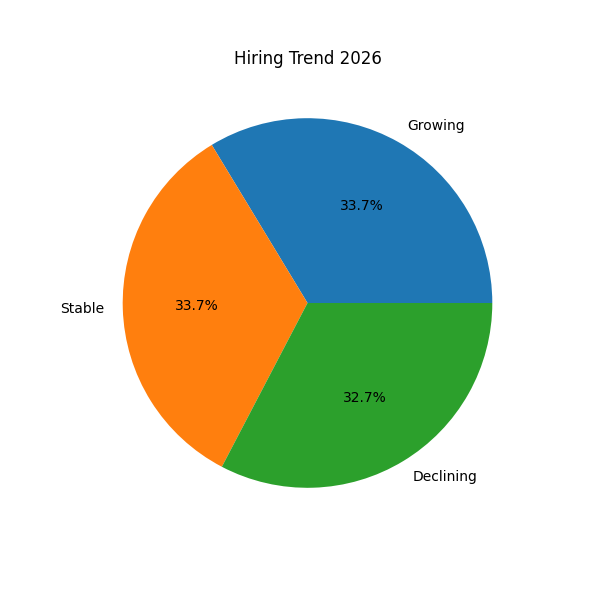
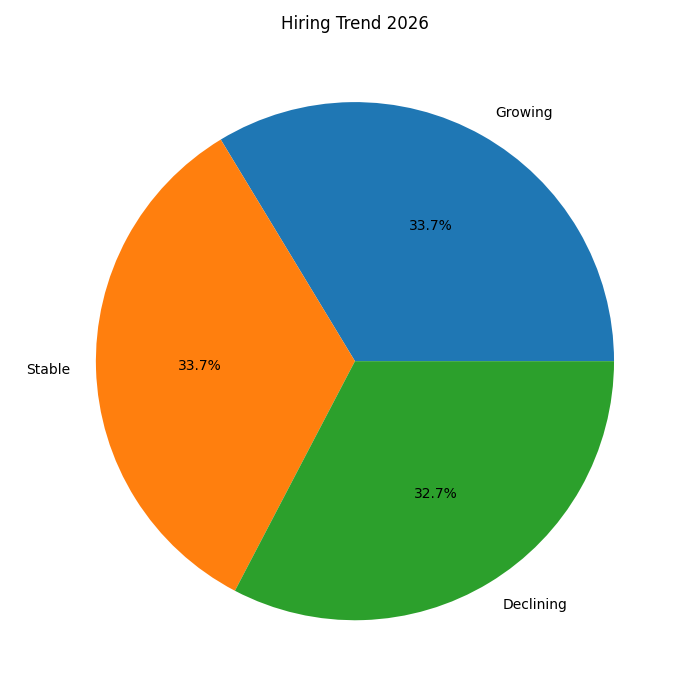
Update visualizations with new insight charts

diff --git a/scripts/visualizations.py b/scripts/visualizations.py
@@ -1,95 +1,168 @@
 import pandas as pd
 import matplotlib.pyplot as plt
 
+# Load Dataset
 df = pd.read_csv("data/AI_Impact_on_Jobs_2030.csv")
 
-# 1. Top Job Roles
-top_jobs = df["Job_Title"].value_counts().head(10)
+# =====================================================
+# 1. HIGHEST PAYING JOBS
+# =====================================================
 
-plt.figure(figsize=(10,5))
-top_jobs.plot(kind="bar")
-plt.title("Top 10 Job Roles")
+salary = (
+    df.groupby("Job_Title")["Average_Salary_USD"]
+    .mean()
+    .sort_values(ascending=False)
+    .head(10)
+)
+
+plt.figure(figsize=(12,6))
+salary.plot(kind="barh")
+
+plt.title("Top 10 Highest Paying Jobs")
+plt.xlabel("Average Salary (USD)")
+plt.ylabel("Job Title")
+
 plt.tight_layout()
-plt.savefig("screenshots/top_jobs.png")
+plt.savefig("screenshots/highest_paying_jobs.png")
 plt.close()
 
-# 2. Top Countries
-countries = df["Country"].value_counts().head(10)
+# =====================================================
+# 2. FUTURE-PROOF CAREERS
+# =====================================================
 
-plt.figure(figsize=(10,5))
-countries.plot(kind="bar")
-plt.title("Top Countries")
+future = (
+    df.groupby("Job_Title")["Future_Demand_Score"]
+    .mean()
+    .sort_values(ascending=False)
+    .head(10)
+)
+
+plt.figure(figsize=(12,6))
+future.plot(kind="barh")
+
+plt.title("Top 10 Future-Proof Careers")
+plt.xlabel("Future Demand Score")
+plt.ylabel("Job Title")
+
+plt.tight_layout()
+plt.savefig("screenshots/future_proof_jobs.png")
+plt.close()
+
+# =====================================================
+# 3. INDUSTRY GROWTH POTENTIAL
+# =====================================================
+
+industry_growth = (
+    df.groupby("Industry")["Job_Growth_2030"]
+    .mean()
+    .sort_values(ascending=False)
+)
+
+plt.figure(figsize=(12,6))
+industry_growth.plot(kind="bar")
+
+plt.title("Industry Growth Potential by 2030")
+plt.xlabel("Industry")
+plt.ylabel("Average Job Growth")
+
+plt.tight_layout()
+plt.savefig("screenshots/industry_growth.png")
+plt.close()
+
+# =====================================================
+# 4. AI TOOL USAGE VS SALARY
+# =====================================================
+
+salary_ai = (
+    df.groupby("AI_Tool_Usage")["Average_Salary_USD"]
+    .mean()
+)
+
+plt.figure(figsize=(8,5))
+salary_ai.plot(kind="bar")
+
+plt.title("Average Salary by AI Tool Usage")
+plt.xlabel("AI Tool Usage")
+plt.ylabel("Average Salary (USD)")
+
+plt.tight_layout()
+plt.savefig("screenshots/salary_vs_ai_usage.png")
+plt.close()
+
+# =====================================================
+# 5. AI RISK VS FUTURE DEMAND
+# =====================================================
+
+job_summary = df.groupby("Job_Title").agg({
+    "AI_Replacement_Risk":"mean",
+    "Future_Demand_Score":"mean"
+})
+
+plt.figure(figsize=(12,8))
+
+plt.scatter(
+    job_summary["AI_Replacement_Risk"],
+    job_summary["Future_Demand_Score"]
+)
+
+for job in job_summary.index:
+    plt.annotate(
+        job,
+        (
+            job_summary.loc[job,"AI_Replacement_Risk"],
+            job_summary.loc[job,"Future_Demand_Score"]
+        ),
+        fontsize=7
+    )
+
+plt.title("AI Risk vs Future Demand")
+plt.xlabel("AI Replacement Risk")
+plt.ylabel("Future Demand Score")
+
+plt.tight_layout()
+plt.savefig("screenshots/ai_risk_vs_future_demand.png")
+plt.close()
+
+# =====================================================
+# 6. TOP COUNTRIES BY JOB COUNT
+# =====================================================
+
+countries = (
+    df["Country"]
+    .value_counts()
+    .head(10)
+)
+
+plt.figure(figsize=(12,6))
+countries.plot(kind="barh")
+
+plt.title("Top Countries by Job Count")
+plt.xlabel("Number of Jobs")
+plt.ylabel("Country")
+
 plt.tight_layout()
 plt.savefig("screenshots/top_countries.png")
 plt.close()
 
-# 3. Hiring Trend
+# =====================================================
+# 7. HIRING TREND
+# =====================================================
+
 hiring = df["Hiring_Trend_2026"].value_counts()
 
-plt.figure(figsize=(6,6))
-hiring.plot(kind="pie", autopct="%1.1f%%")
+plt.figure(figsize=(7,7))
+hiring.plot(
+    kind="pie",
+    autopct="%1.1f%%"
+)
+
 plt.ylabel("")
 plt.title("Hiring Trend 2026")
+
+plt.tight_layout()
 plt.savefig("screenshots/hiring_trend.png")
 plt.close()
 
-# 4. Education Level
-education = df["Education_Level"].value_counts()
-
-plt.figure(figsize=(6,6))
-education.plot(kind="pie", autopct="%1.1f%%")
-plt.ylabel("")
-plt.title("Education Level Distribution")
-plt.savefig("screenshots/education_level.png")
-plt.close()
-
-# 5. Salary vs AI Risk (Advanced Chart)
-plt.figure(figsize=(10,6))
-plt.scatter(
-    df["AI_Replacement_Risk"],
-    df["Average_Salary_USD"]
-)
-
-plt.title("Salary vs AI Replacement Risk")
-plt.xlabel("AI Replacement Risk")
-plt.ylabel("Average Salary (USD)")
-plt.tight_layout()
-plt.savefig("screenshots/salary_vs_ai_risk.png")
-plt.close()
-
-# 6. Future Demand Score Distribution
-plt.figure(figsize=(10,6))
-plt.hist(df["Future_Demand_Score"], bins=20)
-plt.title("Future Demand Score Distribution")
-plt.xlabel("Future Demand Score")
-plt.ylabel("Frequency")
-plt.tight_layout()
-plt.savefig("screenshots/future_demand_distribution.png")
-plt.close()
-
-print("All charts saved successfully!")
-
-
-import seaborn as sns
-
-plt.figure(figsize=(10,6))
-
-numeric_cols = [
-    "Years_Experience",
-    "AI_Replacement_Risk",
-    "Future_Demand_Score",
-    "Average_Salary_USD",
-    "Job_Growth_2030",
-    "Performance_Score",
-    "Job_Satisfaction"
-]
-
-sns.heatmap(
-    df[numeric_cols].corr(),
-    annot=True
-)
-
-plt.title("Correlation Heatmap")
-plt.tight_layout()
-plt.savefig("screenshots/correlation_heatmap.png")
-plt.close()
+print("="*60)
+print("ALL INSIGHT CHARTS GENERATED SUCCESSFULLY")
+print("="*60)

diff --git a/scripts/README.md b/scripts/README.md
@@ -93,6 +93,23 @@ AI-Job-Market-Dashboard
 - Advanced Machine Learning Models
 - Real-time Job Market Data Integration
 
+
+
+## Visualizations
+
+
+### Top Job Roles
+
+![Top Jobs](screenshots/top_jobs.png)
+
+### Salary vs AI Risk
+
+![Salary vs AI Risk](screenshots/salary_vs_ai_risk.png)
+
+### Correlation Heatmap
+
+![Correlation Heatmap](screenshots/correlation_heatmap.png)
+
 ## Author
 
 Aamir 